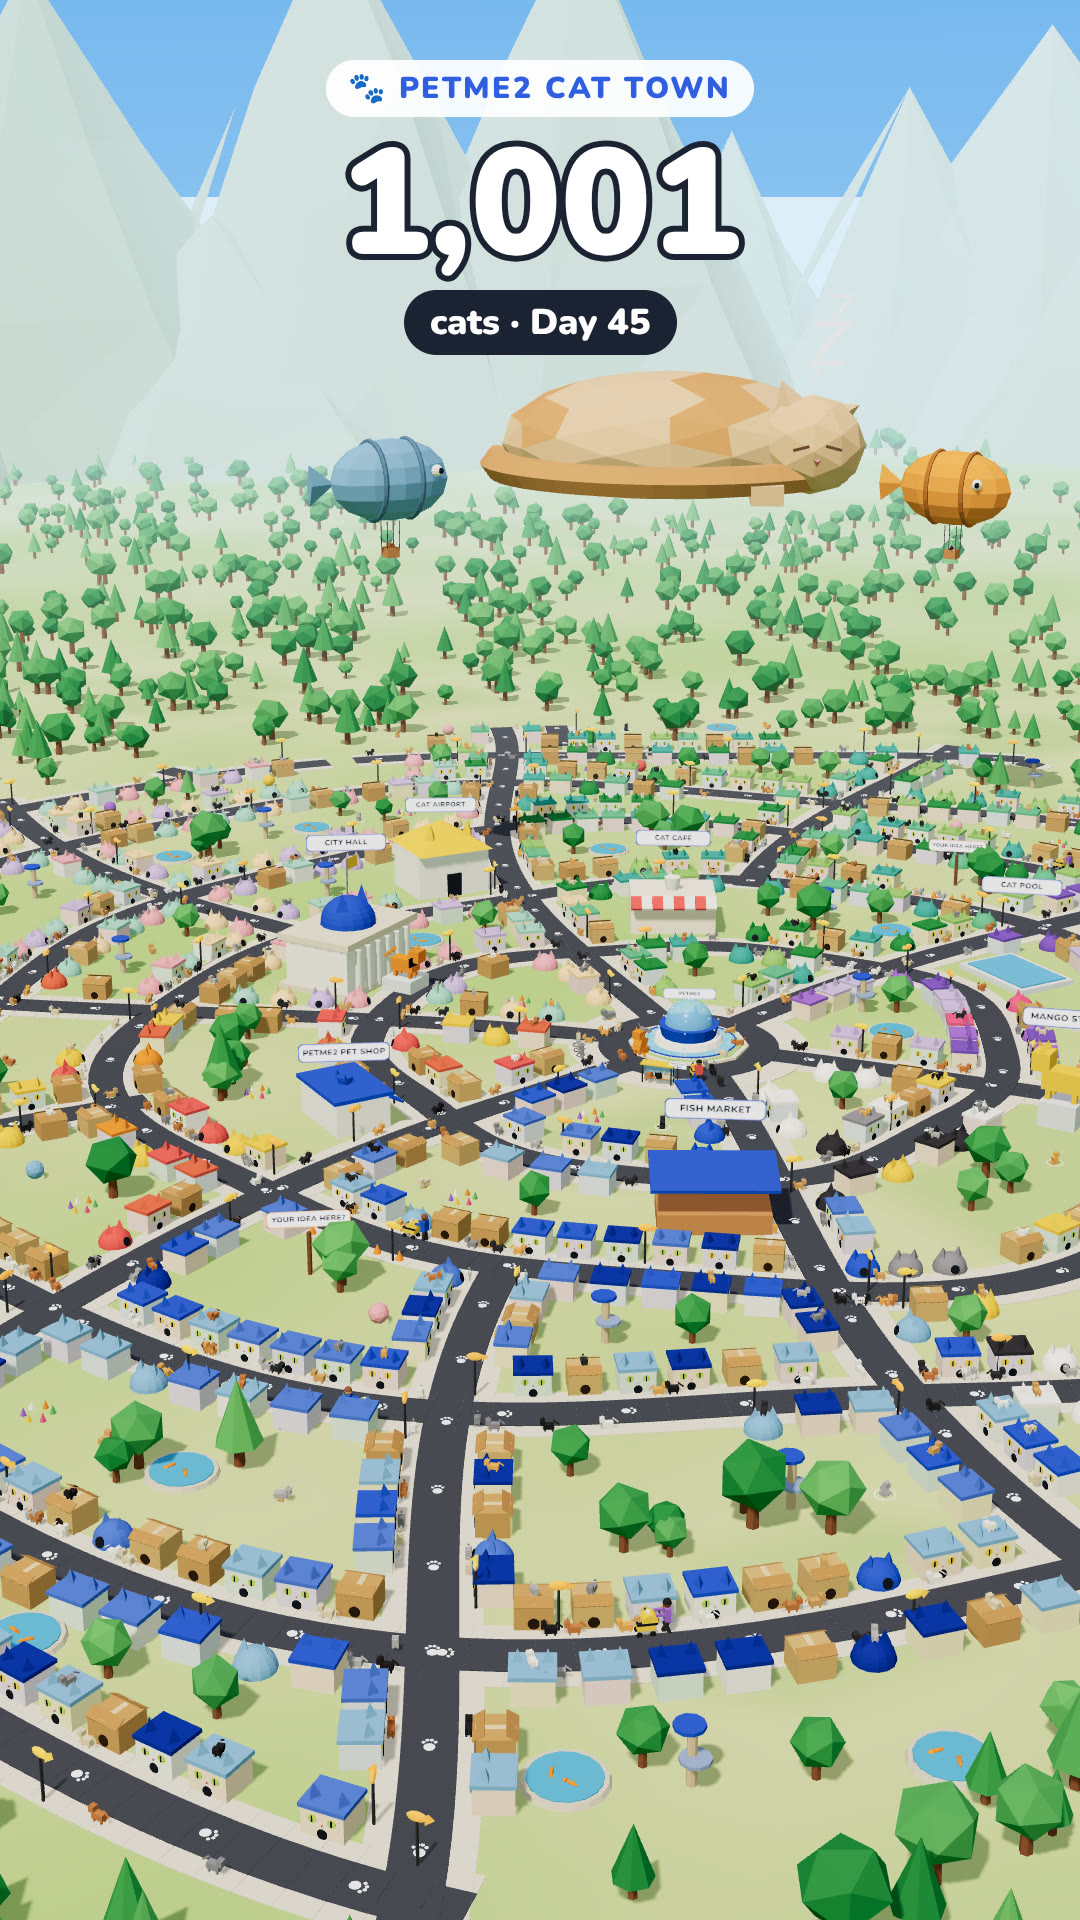
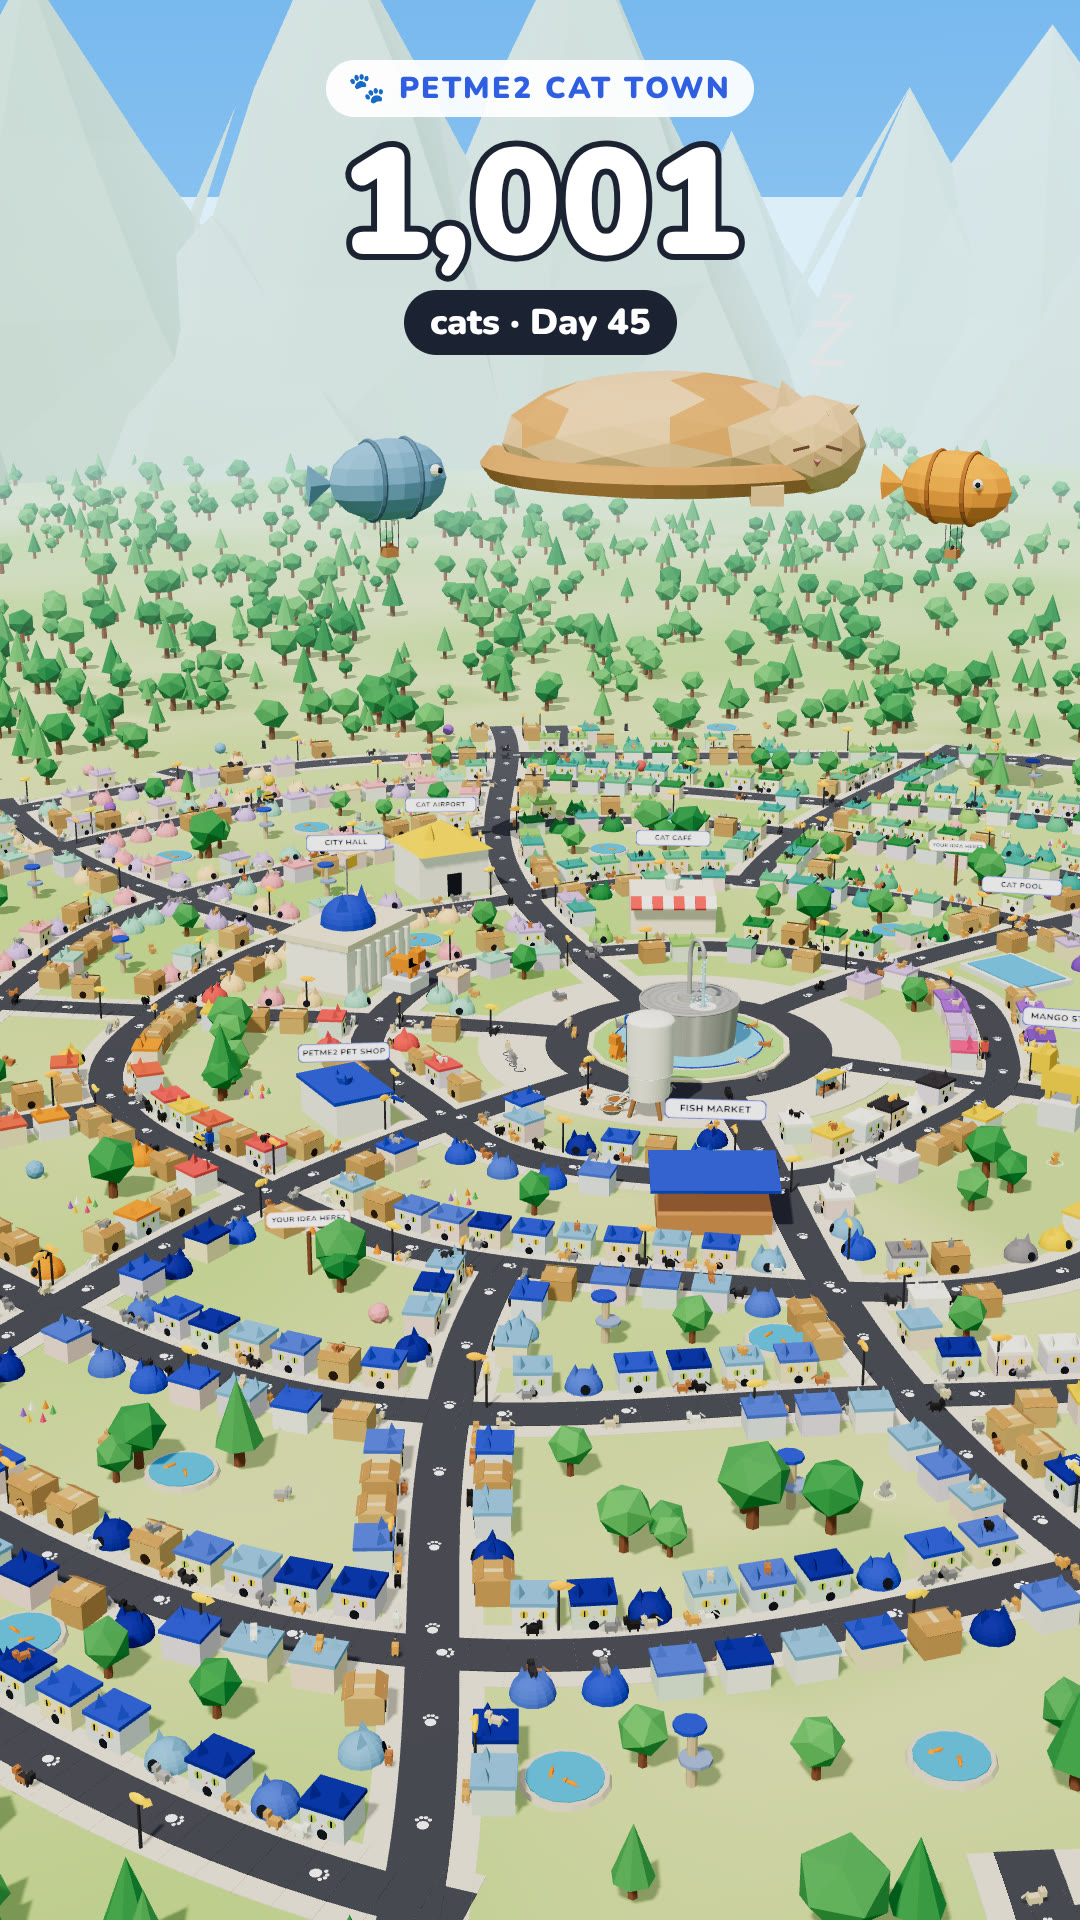
Cat Town: real PETME2 fountain + dual bowl feeder, bigger square, D-pad, double-tap fly-to, game controls (final builder work, handed to Cat Town session)
Claude-Session: https://claude.ai/code/session_01HHS1qB7cDk7kf96VcdcLix

diff --git a/petme2-ads-agent/shopify-theme-tech/assets/pm2-cat-city.js b/petme2-ads-agent/shopify-theme-tech/assets/pm2-cat-city.js
@@ -910,6 +910,8 @@ addEventListener('resize', syncDock); syncDock();
 { const hint = $('hint'); let seen = false; try { seen = localStorage.getItem('pm2CatTownHintSeen') === '1'; } catch (e) {}
   if (hint && !seen) { hint.hidden = false; requestAnimationFrame(() => hint.classList.add('is-on'));
     setTimeout(() => { hint.classList.remove('is-on'); setTimeout(() => { hint.hidden = true; }, 500); }, 4000); try { localStorage.setItem('pm2CatTownHintSeen', '1'); } catch (e) {} } }
+window.__screenOf = (x, y, z) => { const v = new THREE.Vector3(x, y, z).project(camera), r = renderer.domElement.getBoundingClientRect(); return [r.left + (v.x + 1) / 2 * r.width, r.top + (1 - v.y) / 2 * r.height]; };   // test helper
+window.__ffPos = () => [FT.g.position.toArray(), FD.g.position.toArray()];
 window.__cam = () => ({ pos: camera.position.toArray().map(v => +v.toFixed(2)), target: controls.target.toArray().map(v => +v.toFixed(2)) });
 
 // ---------- tap a house or a building: who lives there / what it is ----------
@@ -934,18 +936,23 @@ const showInfo = (html, pos, y) => { infoBody.innerHTML = html; infoBox.hidden =
 const hideInfo = () => { infoBox.hidden = true; PIN.visible = false; };
 $('infoClose').addEventListener('click', hideInfo);
 const ray = new THREE.Raycaster(), ndc = new THREE.Vector2();
-let downX = 0, downY = 0, lastTap = { t: 0, x: 0, y: 0 };
+let downX = 0, downY = 0, lastTap = { t: 0, x: 0, y: 0 }, tapTimer = 0;
 renderer.domElement.addEventListener('pointerdown', e => { downX = e.clientX; downY = e.clientY; });
 renderer.domElement.addEventListener('pointerup', e => {
   if (Math.hypot(e.clientX - downX, e.clientY - downY) > 6) return;          // a drag, not a tap
-  const r = renderer.domElement.getBoundingClientRect(); ndc.set((e.clientX - r.left) / r.width * 2 - 1, -((e.clientY - r.top) / r.height) * 2 + 1);
-  ray.setFromCamera(ndc, camera);
-  const now = performance.now(), dbl = now - lastTap.t < 300 && Math.hypot(e.clientX - lastTap.x, e.clientY - lastTap.y) < 25;
+  const r = renderer.domElement.getBoundingClientRect(), nx = (e.clientX - r.left) / r.width * 2 - 1, ny = -((e.clientY - r.top) / r.height) * 2 + 1;
+  const now = e.timeStamp, dbl = now - lastTap.t < 320 && Math.hypot(e.clientX - lastTap.x, e.clientY - lastTap.y) < 25;
   lastTap = dbl ? { t: 0, x: 0, y: 0 } : { t: now, x: e.clientX, y: e.clientY };
-  if (dbl) {   // double-tap / double-click: fly there (ground plane y = 0, not the scene); the first tap's card stays as it is
+  clearTimeout(tapTimer);
+  if (dbl) {   // double-tap / double-click: fly there (ground plane y = 0, not the heavy scene); the pending single tap is cancelled, so the card does not change
+    ndc.set(nx, ny); ray.setFromCamera(ndc, camera);
     const gp = ray.ray.intersectPlane(GROUND, new THREE.Vector3()); if (!gp) return; stopSpin(); tick(); clampT(gp);
     flyTo(gp.clone(), gp.clone().add(camera.position.clone().sub(controls.target).multiplyScalar(.6)), .8);
-    MARK.position.set(gp.x, .3, gp.z); MARK.visible = true; markT = now; return; }
+    MARK.position.set(gp.x, .3, gp.z); MARK.visible = true; markT = performance.now(); return; }
+  tapTimer = setTimeout(() => tapAt(nx, ny), 250);   // single tap: wait a moment so a double tap can cancel it (and the scene raycast doesn't block the 2nd tap)
+});
+function tapAt(nx, ny) {
+  ndc.set(nx, ny); ray.setFromCamera(ndc, camera);
   const tNow = tOf(Math.round(cur));
   for (const h of ray.intersectObjects(scene.children.filter(o => !o.isInstancedMesh || PICK.has(o)), true)) {
     const map = PICK.get(h.object);
@@ -963,7 +970,7 @@ renderer.domElement.addEventListener('pointerup', e => {
     if (h.object.isInstancedMesh || h.object.isMesh) break;
   }
   hideInfo();
-});
+}
 const _render = window.renderFrame;
 window.renderFrame = (t, a) => { if (PIN.visible) { PIN.position.y = pinY + Math.abs(Math.sin(a * 3)) * .8; PIN.rotation.y = a * 2; } _render(t, a); };
 requestAnimationFrame(loop);

diff --git a/petme2-ads-agent/social/cat-town/viewer.html b/petme2-ads-agent/social/cat-town/viewer.html
@@ -39,7 +39,7 @@
   .info[hidden] { display: none; }
   #infoBody { display: flex; gap: 12px; align-items: flex-start; }
   .info__icon { font-size: 30px; line-height: 1; }
-  .info__title { display: block; font: 900 19px var(--display); color: var(--ink); word-break: break-all; }
+  .info__title { display: block; font: 900 19px var(--display); color: var(--ink); overflow-wrap: anywhere; }
   .info__line { display: block; font-size: 14px; color: var(--muted); margin-top: 2px; }
   .info__note { display: block; font-size: 12px; color: var(--brand); margin-top: 6px; font-weight: 700; }
   #infoClose { position: absolute; top: 8px; right: 8px; width: 32px; height: 32px; padding: 0; border-radius: 50%; font-size: 14px; }
@@ -50,7 +50,7 @@
   .pad button.is-down, .pad button:active { transform: scale(.9); background: var(--brand); border-color: var(--brand); color: #fff; }
   .pad .pad__home { background: var(--brand); border-color: var(--brand); color: #fff; font-size: 18px; }
   .pad .pad__zoom { font-size: 24px; }
-  .hint { position: fixed; left: 16px; right: 16px; top: calc(env(safe-area-inset-top, 0px) + 150px); margin: 0 auto; max-width: 360px; text-align: center; background: #1B2333; color: #fff; font: 800 14px/1.35 var(--display); padding: 10px 14px; border-radius: 14px; box-shadow: 0 10px 28px rgba(10,20,40,.3); z-index: 4; pointer-events: none; opacity: 0; transition: opacity .45s; }
+  .hint { position: fixed; left: 16px; right: 16px; top: calc(env(safe-area-inset-top, 0px) + clamp(150px, 11vw + 100px, 190px)); margin: 0 auto; max-width: 360px; text-align: center; background: #1B2333; color: #fff; font: 800 14px/1.35 var(--display); padding: 10px 14px; border-radius: 14px; box-shadow: 0 10px 28px rgba(10,20,40,.3); z-index: 4; pointer-events: none; opacity: 0; transition: opacity .45s; }
   .hint.is-on { opacity: 1; }
   .hint[hidden] { display: none; }
   #stage { user-select: none; -webkit-user-select: none; }

diff --git a/petme2-ads-agent/social/cat-town/build-notes.md b/petme2-ads-agent/social/cat-town/build-notes.md
@@ -80,3 +80,46 @@ The old Mango road patrol is gone (`catMesh` slot 0 = ZERO). The City Hall Mango
 - `q_circles` at t=3 shows the 4th circle empty (that cat is still walking in). This is by design; use t ≥ 4.4 for a full row.
 - In the test harness Google Fonts is blocked, so the postcard footer was checked with a fallback font. On the live page it uses Nunito from Google Fonts. A tight phone row might wrap again if a much wider font is used.
 - `CITY_PLAN.md` still names `town2.html` as the episode engine (noted in the review; not changed here).
+
+## Update 2026-10-06 (evening): real PETME2 fountain + feeder, bigger square, move-around controls
+
+Owner asks: "make a real fountain, like what we actually sell", "make a bigger circle", "fountain & feeder next by", plus web page controls (arrows, zoom, double-tap to fly).
+
+### Engine (`catcity.html`)
+| Item | Where (comment in code) | Notes |
+|---|---|---|
+| Square sizes in one place | `const SQ = {…}` (next to `RING0`) | plaza 16 → **28**, lane 12 → 19, island 8 → 13.6, lawn 7.2 → 12.8, water-bar wall 6.4 → 10 (about 1.7x). Ring roads did not need to move (`RING0` stays 42). |
+| Street plan follows the square | spokes `r0: SQ.lane`; lots `r < SQ.plaza + 4`; always-visible roads `< SQ.plaza + 5`; inner garden band 28 → 34.5; countryside trees inside `SQ.plaza + 4` removed after the `rnd()` calls (other trees keep their places) | No houses, gardens or trees on the square (checked top-down). Lots: 6,502 → 6,464 (enough for 5,000). |
+| PETME2 Stainless Steel Fountain (3.2L) | `FT` block ("Mango's square + the PETME2 Stainless Steel Cat Water Fountain") | Brushed-steel bowl (r 6.1 → 6.6, h 6, canvas map with lighter vertical facets, `#C9CED6`-ish, metalness .3, roughness .35), top plate with 4 ring grooves, pump cap, goose-neck spout (`TubeGeometry` on a CatmullRom curve, rises 7.85 = 1.3x bowl), clear stream with scrolling streaks, splash drops + ripples where it lands, dark oval water-level window with a light-grey "PETME2" above it (canvas on a curved patch). Height about 15.2. The old dome, blue ears and PETME2 billboard are gone. |
+| Water Bar resized | `Build 1` + `updateExtras` | Radii in `WB` (`R_AV` 19.5, `R_FAR` 31, in-lane 17.2, out-lane 15.4, drink spot 10.4, nose 9.35), `Hpath` follows `SQ.island`. Paths are ~1.7x longer, so the drinker loop is 30 s (walk in 9.5, drink 9, turn, walk out 9); Mango keeps his 24 s loop. Mango sits at z 11.2, ripple at 8.6. Droplets/ripples now belong to the spout stream. |
+| PETME2 Dual Bowl Automatic Feeder | `FD` block | White tank + domed lid + blue clip, dark window strip with kibble level, white base with 4 LED dots + round button, 4 angled wooden legs (`#A8784F`), 2 food chutes into 2 shallow steel bowls with kibble. On the plaza at angle .78, r 23.5, facing along the plaza. Visible from Day 1. |
+| Feeder regulars | "feeder regulars" + `updateExtras` ("Feeder:") | 2 eaters (WALK 24/25 + drink pose, 26 s loop, unlock at followers 3 and 6) and a deadpan starer (WALK 26 + sit pose, head tilted up at the tank, 34 s loop, unlock 8). All pure functions of `t`/`anim`. |
+| Plaza heroes moved | `ROW` (r 24, angles 1.71–1.95), `HB` (polar(2.88, 24)), bus stop (polar(6.02, 24), moved out of the feeder's sector) | Cameras `q_fountain`, `q_fountain_day1`, `q_circles`, `q_busstop`, `q_box`, `v_busstop` re-aimed (demo folder + `previews/`). New: `q_fountain_feeder.json`, `q_square_top.json`. |
+| Episode opening | default shot looks at y 5–6 (taller fountain) | |
+
+### Web page (`viewer_loop.js` + shell in `viewer.html`)
+- Tap info: fountain group (bowl, spout and water ring) shows "💧 PETME2 Stainless Steel Fountain"; feeder shows "🍽 PETME2 Dual Bowl Feeder". No prices. The old radius-based fountain check is removed; the pin height comes from `userData.info.pinY`.
+- Move-around pad (bottom right, above the dock): ▲ ▼ ◀ ▶ pan over the ground (25% of the camera distance, 0.3 s ease; hold = keeps moving), + / − zoom, ◎ flies back to Mango's square. 48 px buttons, pressed state, `navigator.vibrate(8)`, aria-labels, focus ring. Keyboard: arrow keys, + / −. Pan is clamped to 1.3x `__CR`. Any button stops auto-rotate.
+- Double-tap / double-click flies there (ground plane y = 0, 0.8 s, distance x0.6) with a yellow ring marker. A single tap now opens the card after 250 ms, so a double tap cancels it (no card flicker, and the scene raycast no longer blocks the second tap).
+- One-time hint "Double-tap to fly there · drag to look around · tap a house" (4 s, `localStorage` flag in try/catch). Reduced motion: moves are instant.
+- Card titles wrap normally now (`overflow-wrap: anywhere` instead of `word-break: break-all`, which broke "Feeder" into "Feed er").
+- Debug helpers for tests: `window.__cam()`, `window.__screenOf(x, y, z)`, `window.__ffPos()`.
+- LITE settings are unchanged (no shadows/antialias on phones, fewer trees, 30 fps cap, pause off screen).
+
+### Shopify (`build_shopify.py`)
+- **Fixed a break from the LITE change:** the shell now writes `window.CAT_VIEWER…; window.CITY = …` in one script, and the old regex looked for `<script>window.CITY =` only, so the script crashed (and the last port had no LITE/VIEWER flags). It now carries the whole flags + city script over.
+- `[data-nav]` and `.dock` lookups are scoped to the section; `#pad`/`#hint` get the `pcc-` prefix; `.pad`/`.hint` become `position: absolute`; the hint flag key is `pm2CatTownHintSeen`.
+
+### Checks
+- Stills (SwiftShader 1080x1920): `p_day1`, `p_100`, `p_1000`, `p_1000street`, `q_fountain`, `q_fountain_day1`, `q_circles`, `q_busstop`, `q_box`, `v_busstop`, new close-ups. Top view at anim 0/5/10/15/20/25: cats come in on the lane, 4–8 drink at a time, leave on the inner lane; Mango drinks at anim ~20. Feeder: eaters walk in, eat, leave; the starer sits and looks up.
+- `p_1000` full still: **5.5 s** (6.6 s before in the same session), so no slowdown.
+- `vtest` (400x860 phone), 360x740, 1280x800: pad visible, not over the dock, counter or card. `taptest`: house, fountain and feeder cards correct. `navtest.js` (demo folder): home, up, hold right, zoom in/out, arrow key, + key, single tap fountain/feeder, double-tap (fly + card unchanged), dblclick all move the view as expected. No page errors, except 2 `setPointerCapture` errors that OrbitControls throws for the test's synthetic pointer events (test only).
+- Test note: under SwiftShader a frame takes a few hundred ms, so two real Playwright touch taps arrive > 300 ms apart. The double-tap test therefore dispatches both taps in one page tick; mouse `dblclick` works directly.
+
+### Previews
+`final_fountain_feeder.jpg` (camera `q_fountain_feeder.json`, anim 5.6), `final_square_top.jpg` (`q_square_top.json`), `final_city_1000.jpg`, `final_day1.jpg` refreshed.
+
+### Known issues
+- At 360 px the "Play growth" button wraps to a second row of the dock (that row was not changed here); the pad moves up with the dock height (`--dockH`).
+- The feeder hides part of the fountain from some angles of the default `q_fountain` camera; `q_fountain_feeder` frames both.
+- The starer's "look up" is a whole-body tilt (cats have no separate head in the pose kit).
